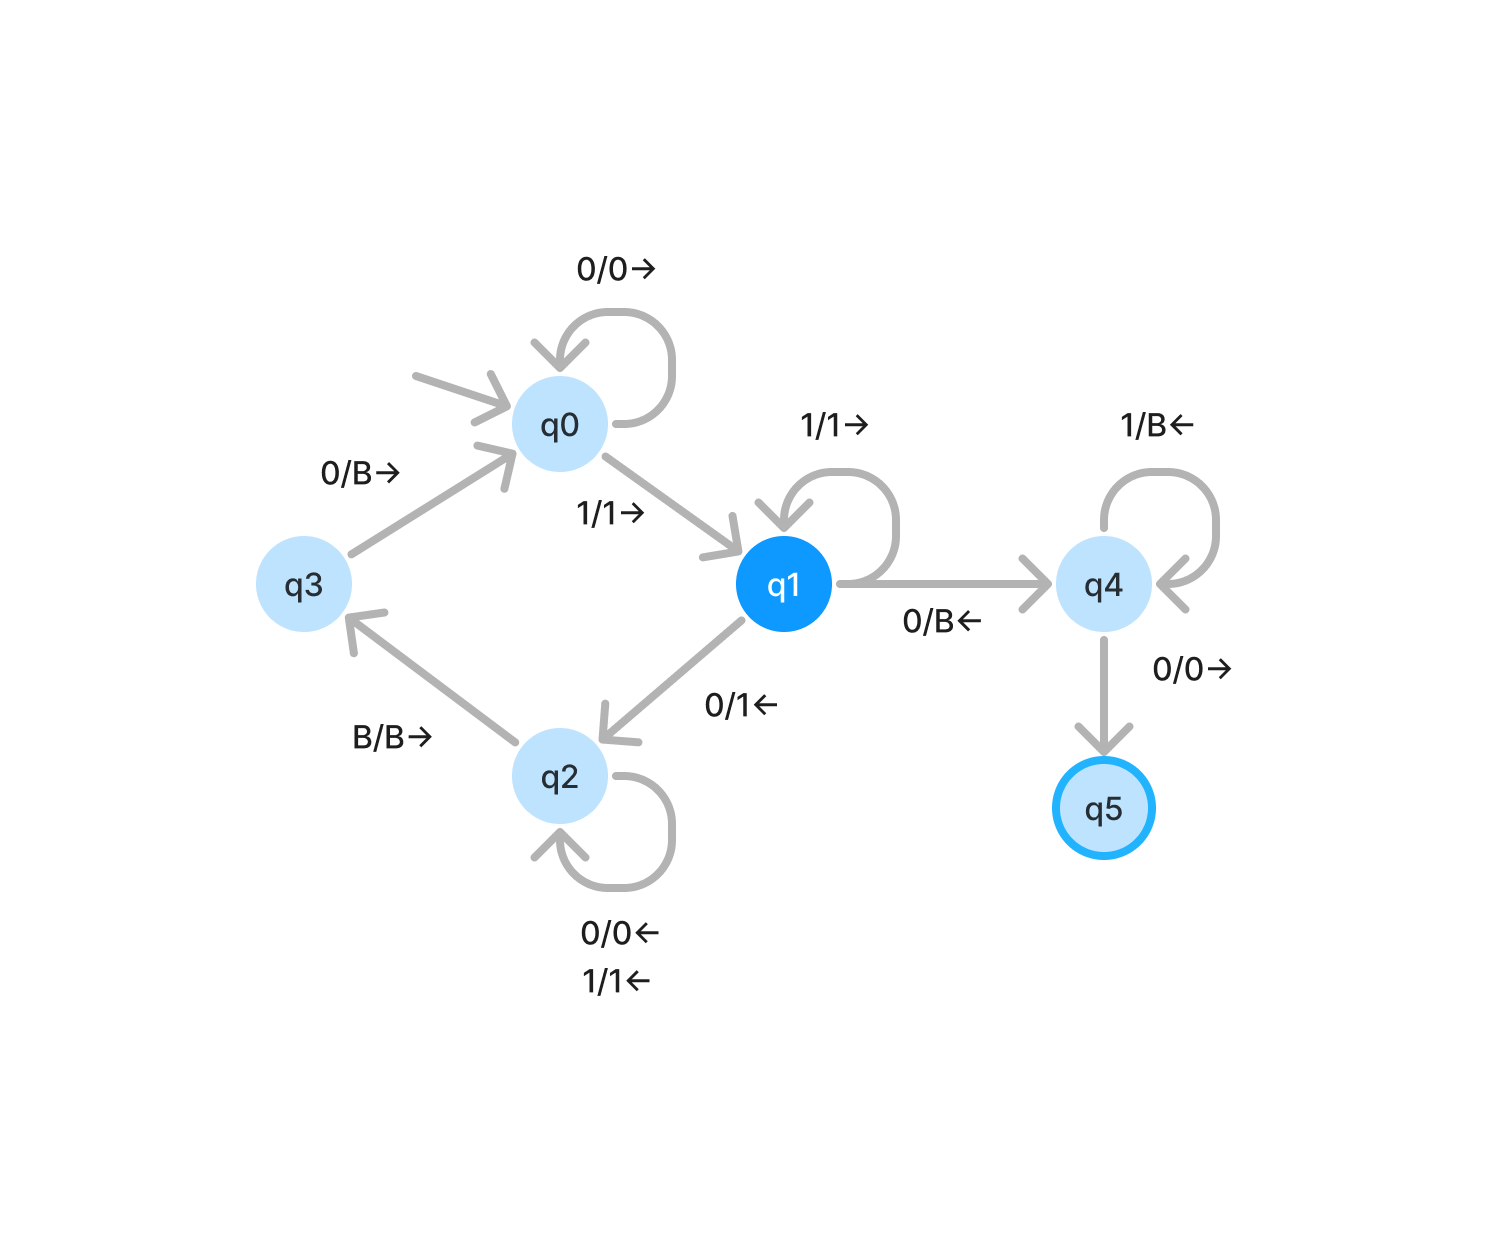
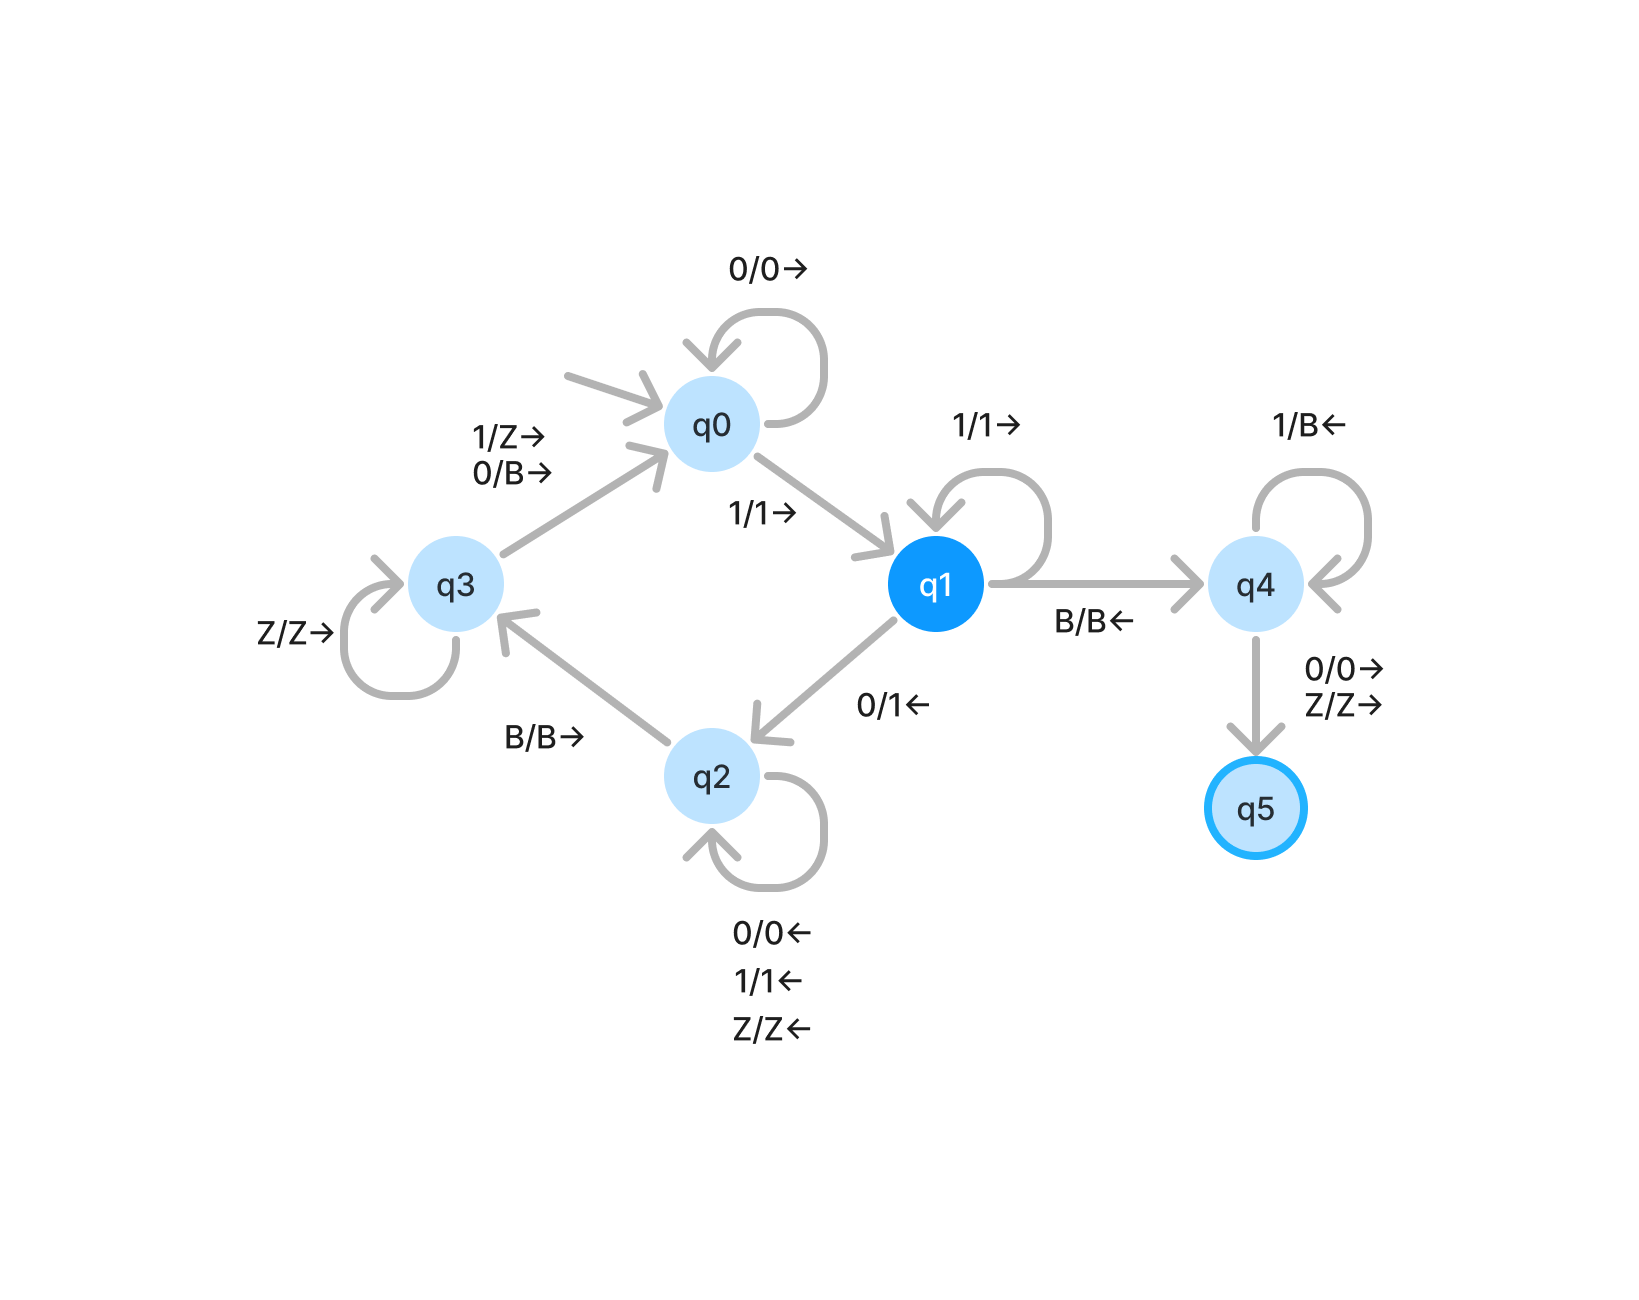
grafos y tablas actualizadas falta la de resta

Changed region(s): [[0.1546, 0.1869, 0.8347, 0.8099], [0.4946, 0.2492, 0.5255, 0.3115], [0.3401, 0.4984, 0.371, 0.5296]]

diff --git a/tabla2.php b/tabla2.php
@@ -11,73 +11,73 @@
     <tbody>
         <tr>
             <td>q0</td>
-            <td>(q0,0,R)</td>
-            <td>(q1,1,R)</td>
+            <td <?php if ($_SESSION["seleccion"][0] == 0 && $_SESSION["seleccion"][1] == "0") { echo 'style="background-color:red;"'; } ?>>(q0,0,R)</td>
+            <td <?php if ($_SESSION["seleccion"][0] == 0 && $_SESSION["seleccion"][1] == "1") { echo 'style="background-color:red;"'; } ?>>(q1,1,R)</td>
             <td></td>
             <td></td>
         </tr>
         <tr>
             <td>q1</td>
-            <td>(q2,X,L)</td>
-            <td>(q3,1,R)</td>
-            <td>(q1,X,R)</td>
+            <td <?php if ($_SESSION["seleccion"][0] == 1 && $_SESSION["seleccion"][1] == "0") { echo 'style="background-color:red;"'; } ?>>(q2,X,L)</td>
+            <td <?php if ($_SESSION["seleccion"][0] == 1 && $_SESSION["seleccion"][1] == "1") { echo 'style="background-color:red;"'; } ?>>(q3,1,R)</td>
+            <td <?php if ($_SESSION["seleccion"][0] == 1 && $_SESSION["seleccion"][1] == "X") { echo 'style="background-color:red;"'; } ?>>(q1,X,R)</td>
             <td></td>
         </tr>
         <tr>
             <td>q2</td>
-            <td>(q2,0,L)</td>
-            <td>(q2,1,L)</td>
-            <td>(q2,X,L)</td>
-            <td>(q6,B,R)</td>
+            <td <?php if ($_SESSION["seleccion"][0] == 2 && $_SESSION["seleccion"][1] == "0") { echo 'style="background-color:red;"'; } ?>>(q2,0,L)</td>
+            <td <?php if ($_SESSION["seleccion"][0] == 2 && $_SESSION["seleccion"][1] == "1") { echo 'style="background-color:red;"'; } ?>>(q2,1,L)</td>
+            <td <?php if ($_SESSION["seleccion"][0] == 2 && $_SESSION["seleccion"][1] == "X") { echo 'style="background-color:red;"'; } ?>>(q2,X,L)</td>
+            <td <?php if ($_SESSION["seleccion"][0] == 2 && $_SESSION["seleccion"][1] == "B") { echo 'style="background-color:red;"'; } ?>>(q6,B,R)</td>
         </tr>
         <tr>
             <td>q3</td>
-            <td>(q3,0,R)</td>
+            <td <?php if ($_SESSION["seleccion"][0] == 3 && $_SESSION["seleccion"][1] == "0") { echo 'style="background-color:red;"'; } ?>>(q3,0,R)</td>
             <td></td>
             <td></td>
-            <td>(q5,0,L)</td>
+            <td <?php if ($_SESSION["seleccion"][0] == 3 && $_SESSION["seleccion"][1] == "B") { echo 'style="background-color:red;"'; } ?>>(q5,0,L)</td>
         </tr>
         <tr>
             <td>q4</td>
-            <td>(q0,0,R)</td>
-            <td>(q7,B,R)</td>
+            <td <?php if ($_SESSION["seleccion"][0] == 4 && $_SESSION["seleccion"][1] == "0") { echo 'style="background-color:red;"'; } ?>>(q0,0,R)</td>
+            <td <?php if ($_SESSION["seleccion"][0] == 4 && $_SESSION["seleccion"][1] == "1") { echo 'style="background-color:red;"'; } ?>>(q7,B,R)</td>
             <td></td>
             <td></td>
         </tr>
         <tr>
             <td>q5</td>
-            <td>(q5,0,L)</td>
-            <td>(q5,1,L)</td>
-            <td>(q5,0,L)</td>
-            <td>(q4,B,R)</td>
+            <td <?php if ($_SESSION["seleccion"][0] == 5 && $_SESSION["seleccion"][1] == "0") { echo 'style="background-color:red;"'; } ?>>(q5,0,L)</td>
+            <td <?php if ($_SESSION["seleccion"][0] == 5 && $_SESSION["seleccion"][1] == "1") { echo 'style="background-color:red;"'; } ?>>(q5,1,L)</td>
+            <td <?php if ($_SESSION["seleccion"][0] == 5 && $_SESSION["seleccion"][1] == "X") { echo 'style="background-color:red;"'; } ?>>(q5,0,L)</td>
+            <td <?php if ($_SESSION["seleccion"][0] == 5 && $_SESSION["seleccion"][1] == "B") { echo 'style="background-color:red;"'; } ?>>(q4,B,R)</td>
         </tr>
         <tr>
             <td>q6</td>
-            <td>(q0,B,R)</td>
-            <td>(q8,B,R)</td>
+            <td <?php if ($_SESSION["seleccion"][0] == 6 && $_SESSION["seleccion"][1] == "0") { echo 'style="background-color:red;"'; } ?>>(q0,B,R)</td>
+            <td <?php if ($_SESSION["seleccion"][0] == 6 && $_SESSION["seleccion"][1] == "1") { echo 'style="background-color:red;"'; } ?>>(q8,B,R)</td>
             <td></td>
             <td></td>
         </tr>
         <tr>
             <td>q7</td>
-            <td>(q7,B,R)</td>
-            <td>(q10,B,R)</td>
+            <td <?php if ($_SESSION["seleccion"][0] == 7 && $_SESSION["seleccion"][1] == "0") { echo 'style="background-color:red;"'; } ?>>(q7,B,R)</td>
+            <td <?php if ($_SESSION["seleccion"][0] == 7 && $_SESSION["seleccion"][1] == "1") { echo 'style="background-color:red;"'; } ?>>(q10,B,R)</td>
             <td></td>
             <td></td>
         </tr>
         <tr>
             <td>q8</td>
-            <td>(q8,B,R)</td>
-            <td>(q8,B,R)</td>
-            <td>(q9,B,R)</td>
+            <td <?php if ($_SESSION["seleccion"][0] == 8 && $_SESSION["seleccion"][1] == "0") { echo 'style="background-color:red;"'; } ?>>(q8,B,R)</td>
+            <td <?php if ($_SESSION["seleccion"][0] == 8 && $_SESSION["seleccion"][1] == "1") { echo 'style="background-color:red;"'; } ?>>(q8,B,R)</td>
+            <td <?php if ($_SESSION["seleccion"][0] == 8 && $_SESSION["seleccion"][1] == "X") { echo 'style="background-color:red;"'; } ?>>(q9,B,R)</td>
             <td></td>
         </tr>
         <tr>
             <td>q9</td>
-            <td>(q9,0,R)</td>
+            <td <?php if ($_SESSION["seleccion"][0] == 9 && $_SESSION["seleccion"][1] == "0") { echo 'style="background-color:red;"'; } ?>>(q9,0,R)</td>
             <td></td>
             <td></td>
-            <td>(q10,Y,L)</td>
+            <td <?php if ($_SESSION["seleccion"][0] == 9 && $_SESSION["seleccion"][1] == "B") { echo 'style="background-color:red;"'; } ?>>(q10,Y,L)</td>
         </tr>
     </tbody>
 </table>

diff --git a/tabla3.php b/tabla3.php
@@ -1,4 +1,3 @@
-
 <table>
     <thead>
         <tr>
@@ -11,45 +10,39 @@
     <tbody>
         <tr>
             <td>q0</td>
-            <td>(q1, B, R)</td>
-            <td>(q3, B, R)</td>
-                
+            <td <?php if ($_SESSION["seleccion"][0] == 0 && $_SESSION["seleccion"][1] == "0") { echo 'style="background-color:red;"'; } ?>>(q1, B, R)</td>
+            <td <?php if ($_SESSION["seleccion"][0] == 0 && $_SESSION["seleccion"][1] == "1") { echo 'style="background-color:red;"'; } ?>>(q3, B, R)</td>
             <td></td>
         </tr>
         <tr>
             <td>q1</td>
-            <td>(q1, 0, R)</td>
-            <td>(q1, 1, R)</td>
-                
-            <td>(q2, 0, L)</td>
+            <td <?php if ($_SESSION["seleccion"][0] == 1 && $_SESSION["seleccion"][1] == "0") { echo 'style="background-color:red;"'; } ?>>(q1, 0, R)</td>
+            <td <?php if ($_SESSION["seleccion"][0] == 1 && $_SESSION["seleccion"][1] == "1") { echo 'style="background-color:red;"'; } ?>>(q1, 1, R)</td>
+            <td <?php if ($_SESSION["seleccion"][0] == 1 && $_SESSION["seleccion"][1] == "B") { echo 'style="background-color:red;"'; } ?>>(q2, 0, L)</td>
         </tr>
         <tr>
             <td>q2</td>
-            <td>(q2, 0, L)</td>
-            <td>(q2, 1, L)</td>
-                
-            <td>(q0, B, R)</td>
+            <td <?php if ($_SESSION["seleccion"][0] == 2 && $_SESSION["seleccion"][1] == "0") { echo 'style="background-color:red;"'; } ?>>(q2, 0, L)</td>
+            <td <?php if ($_SESSION["seleccion"][0] == 2 && $_SESSION["seleccion"][1] == "1") { echo 'style="background-color:red;"'; } ?>>(q2, 1, L)</td>
+            <td <?php if ($_SESSION["seleccion"][0] == 2 && $_SESSION["seleccion"][1] == "B") { echo 'style="background-color:red;"'; } ?>>(q0, B, R)</td>
         </tr>
         <tr>
             <td>q3</td>
-            <td>(q4, B, R)</td>
-            <td>(q6, B, R)</td>
-                
+            <td <?php if ($_SESSION["seleccion"][0] == 3 && $_SESSION["seleccion"][1] == "0") { echo 'style="background-color:red;"'; } ?>>(q4, B, R)</td>
+            <td <?php if ($_SESSION["seleccion"][0] == 3 && $_SESSION["seleccion"][1] == "1") { echo 'style="background-color:red;"'; } ?>>(q6, B, R)</td>
             <td></td>
         </tr>
         <tr>
             <td>q4</td>
-            <td>(q4, 0, R)</td>
-            <td>(q4, 1, R)</td>
-                
-            <td>(q5, 0, L)</td>
+            <td <?php if ($_SESSION["seleccion"][0] == 4 && $_SESSION["seleccion"][1] == "0") { echo 'style="background-color:red;"'; } ?>>(q4, 0, R)</td>
+            <td <?php if ($_SESSION["seleccion"][0] == 4 && $_SESSION["seleccion"][1] == "1") { echo 'style="background-color:red;"'; } ?>>(q4, 1, R)</td>
+            <td <?php if ($_SESSION["seleccion"][0] == 4 && $_SESSION["seleccion"][1] == "B") { echo 'style="background-color:red;"'; } ?>>(q5, 0, L)</td>
         </tr>
         <tr>
             <td>q5</td>
-            <td>(q5, 0, L)</td>
-            <td>(q5, 1, L)</td>
-                
-            <td>(q3, B, R)</td>
+            <td <?php if ($_SESSION["seleccion"][0] == 5 && $_SESSION["seleccion"][1] == "0") { echo 'style="background-color:red;"'; } ?>>(q5, 0, L)</td>
+            <td <?php if ($_SESSION["seleccion"][0] == 5 && $_SESSION["seleccion"][1] == "1") { echo 'style="background-color:red;"'; } ?>>(q5, 1, L)</td>
+            <td <?php if ($_SESSION["seleccion"][0] == 5 && $_SESSION["seleccion"][1] == "B") { echo 'style="background-color:red;"'; } ?>>(q3, B, R)</td>
         </tr>
     </tbody>
 </table>

diff --git a/index.php b/index.php
@@ -32,9 +32,24 @@ session_start();
         width: 54px;
         margin-right: 20px;
     }
-    .igual{
+    .igual,.cinta-2{
         margin-left: 10px;
         min-width: 46px;
+    }
+    .cinta{
+        background-color: gray;
+        color: white;
+        width: 80%;
+        height: 57px;
+        align-items: center;
+    }
+    Strong{
+        color: #4d1818;
+    }
+    .cinta-2{
+        width: 50%;
+        height: 25px;
+        font-size: medium;
     }
     label, h2, h3 {
         display: flex;
@@ -45,7 +60,9 @@ session_start();
         display: flex;
         flex-direction: column;
         justify-content: center;
+        align-items: center;
     }
+        
     body {
         font-family: Arial, sans-serif;
         background-color: #f0f0f0;
@@ -215,7 +232,12 @@ session_start();
                     if($R_final==""){//pone un valor al resultado en caso que no tenga uno se asigna sero
                         $_SESSION["imprime"]="0";
                     }else{
-                        $_SESSION["imprime"]=strlen($R_final);//en este caso es la cantidad de ceros que quedaron en la cadena
+                        if($R_final[0]=="Z"){
+                            $_SESSION["imprime"]=-strlen($R_final);
+                        }else{
+                            $_SESSION["imprime"]=strlen($R_final);
+                        }
+                        //en este caso es la cantidad de ceros que quedaron en la cadena
                     }
                 }
             }
@@ -231,7 +253,7 @@ session_start();
                 }
                 ?>
         <label for="cinta" class="cinta">
-        Cinta estado actual:<?php if(isset($maquina)){echo "<strong>q".$maquina."<strong>";}?><input type="text" name="cinta" class="igual" value="<?php
+        Cinta estado actual:<?php if(isset($maquina)){echo "<strong>q".$maquina."</strong>";}?><input type="text" name="cinta" class="cinta-2" readonly value="<?php
                 if (isset($valor)) {
                     echo $valor;
                 }

diff --git a/Resta.php b/Resta.php
@@ -2,9 +2,9 @@
     $Funciones=[
         [[0,"0","0","R",0],[0,"1","1","R",1]],//estado_actual, entrada, remplazo, movimiento, estado al que se dirige
         [[1,"0","1","L",2],[1,"1","1","R",1],[1,"B","B","L",4]],
-        [[2,"0","0","L",2],[2,"1","1","L",2],[2,"B","B","R",3]],
-        [[3,"0","B","R",0]],
-        [[4,"0","0","R",5],[4,"1","B","L",4]],
+        [[2,"0","0","L",2],[2,"1","1","L",2],[2,"Z","Z","L",2],[2,"B","B","R",3]],
+        [[3,"0","B","R",0],[3,"1","Z","R",0],[3,"Z","Z","R",3]],
+        [[4,"0","0","R",5],[4,"1","B","L",4],[4,"Z","Z","R",5]],
     ];
     $bandera=TRUE;
     $cinta=[];
